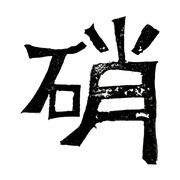
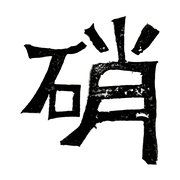
ヘッダーのバランス調整、アイコン背景を白に、SEO対策(メタデータ・構造化データ・sitemap・作家紹介文)を追加

diff --git a/app/layout.tsx b/app/layout.tsx
@@ -1,24 +1,63 @@
 import type { Metadata } from "next";
 import Header from "./components/Header";
-import CartButton from "./components/CartButton";
+import Footer from "./components/Footer";
 import { CartProvider } from "./components/CartContext";
 import VisitTracker from "./components/VisitTracker";
 import "./globals.css";
 
+const siteUrl = process.env.NEXT_PUBLIC_SITE_URL || "https://kougeiglassmotoya.jp";
+
+const siteTitle = "工芸硝子モトヤ | ガラス作家 小野資矢";
+const siteDescription =
+  "ガラス作家・小野資矢が営む工芸硝子モトヤの公式サイト。一つひとつ手作りするガラス作品の販売と、制作の様子を綴るブログ。";
+
 export const metadata: Metadata = {
-  title: "工芸硝子モトヤ",
-  description: "工芸硝子モトヤ 個人ショップ",
+  metadataBase: new URL(siteUrl),
+  title: {
+    default: siteTitle,
+    template: "%s | 工芸硝子モトヤ",
+  },
+  description: siteDescription,
+  openGraph: {
+    title: siteTitle,
+    description: siteDescription,
+    url: "/",
+    siteName: "工芸硝子モトヤ",
+    locale: "ja_JP",
+    type: "website",
+  },
+  twitter: {
+    card: "summary_large_image",
+    title: siteTitle,
+    description: siteDescription,
+  },
+};
+
+const jsonLd = {
+  "@context": "https://schema.org",
+  "@type": "OnlineStore",
+  name: "工芸硝子モトヤ",
+  url: siteUrl,
+  description: siteDescription,
+  founder: {
+    "@type": "Person",
+    name: "小野資矢",
+  },
 };
 
 export default function RootLayout({ children }: { children: React.ReactNode }) {
   return (
     <html lang="ja">
       <body>
+        <script
+          type="application/ld+json"
+          dangerouslySetInnerHTML={{ __html: JSON.stringify(jsonLd) }}
+        />
         <CartProvider>
           <VisitTracker />
-          <CartButton />
           <Header />
           <main>{children}</main>
+          <Footer />
         </CartProvider>
       </body>
     </html>

diff --git a/app/globals.css b/app/globals.css
@@ -38,7 +38,7 @@ a {
   gap: 16px;
   max-width: 960px;
   margin: 0 auto;
-  padding: 20px 96px 20px 24px;
+  padding: 16px 24px;
 }
 
 .site-logo-block {
@@ -48,8 +48,14 @@ a {
 }
 
 .site-logo-img {
-  height: 96px;
+  height: 72px;
   width: auto;
+}
+
+.site-header-right {
+  display: flex;
+  align-items: center;
+  gap: 24px;
 }
 
 .site-nav {
@@ -72,15 +78,13 @@ a {
 }
 
 .cart-button {
-  position: fixed;
-  top: 16px;
-  right: 16px;
-  z-index: 50;
+  position: relative;
+  flex-shrink: 0;
   display: inline-flex;
   align-items: center;
   justify-content: center;
-  width: 56px;
-  height: 56px;
+  width: 48px;
+  height: 48px;
   background: var(--card-bg);
   border: 1px solid var(--border);
   border-radius: 50%;
@@ -115,30 +119,61 @@ a {
 main {
   max-width: 960px;
   margin: 0 auto;
-  padding: 24px 24px 120px;
+  padding: 24px 24px 64px;
   min-height: 60vh;
+}
+
+.site-footer {
+  max-width: 960px;
+  margin: 0 auto;
+  padding: 24px 24px 40px;
+  border-top: 1px solid var(--border);
+  color: var(--muted);
+  font-size: 12px;
+  line-height: 1.8;
+}
+
+.site-footer-copyright {
+  margin-top: 8px;
 }
 
 @media (max-width: 640px) {
   .site-header {
-    padding: 16px 80px 16px 16px;
+    padding: 12px 16px;
   }
 
   .site-logo-img {
-    height: 56px;
+    height: 48px;
+  }
+
+  .site-header-right {
+    gap: 12px;
   }
 
   .site-nav {
-    gap: 14px;
+    gap: 12px;
   }
 
-  main {
-    padding: 16px 16px 110px;
+  .site-nav-link {
+    font-size: 13px;
   }
 
   .cart-button {
-    top: 12px;
-    right: 12px;
+    width: 40px;
+    height: 40px;
+  }
+
+  .cart-button svg {
+    width: 22px;
+    height: 22px;
+  }
+
+  main {
+    padding: 16px 16px 48px;
+  }
+
+  .site-footer {
+    padding: 16px 16px 32px;
   }
 
   .page-title {

diff --git a/app/components/Header.tsx b/app/components/Header.tsx
@@ -3,6 +3,7 @@
 import Link from "next/link";
 import { usePathname } from "next/navigation";
 import Logo from "./Logo";
+import CartButton from "./CartButton";
 
 export default function Header() {
   const pathname = usePathname();
@@ -13,14 +14,17 @@ export default function Header() {
       <Link href="/" className="site-logo-block" aria-label="工芸硝子モトヤ トップページ">
         <Logo />
       </Link>
-      <nav className="site-nav">
-        <Link href="/" className={`site-nav-link ${!isBlog ? "active" : ""}`}>
-          ショップ
-        </Link>
-        <Link href="/blog" className={`site-nav-link ${isBlog ? "active" : ""}`}>
-          ブログ
-        </Link>
-      </nav>
+      <div className="site-header-right">
+        <nav className="site-nav">
+          <Link href="/" className={`site-nav-link ${!isBlog ? "active" : ""}`}>
+            ショップ
+          </Link>
+          <Link href="/blog" className={`site-nav-link ${isBlog ? "active" : ""}`}>
+            ブログ
+          </Link>
+        </nav>
+        <CartButton />
+      </div>
     </header>
   );
 }

diff --git a/app/blog/[id]/page.tsx b/app/blog/[id]/page.tsx
@@ -1,4 +1,5 @@
 import { notFound } from "next/navigation";
+import type { Metadata } from "next";
 import { queryOne, Post } from "@/lib/db";
 
 export const dynamic = "force-dynamic";
@@ -13,6 +14,33 @@ async function getPost(id: string): Promise<Post | null> {
     console.error(err);
     return null;
   }
+}
+
+function excerpt(html: string, max = 120) {
+  const text = html.replace(/<[^>]*>/g, " ").replace(/\s+/g, " ").trim();
+  return text.length > max ? `${text.slice(0, max)}…` : text;
+}
+
+export async function generateMetadata({
+  params,
+}: {
+  params: { id: string };
+}): Promise<Metadata> {
+  const post = await getPost(params.id);
+  if (!post) return {};
+
+  const description = excerpt(post.content);
+
+  return {
+    title: post.title,
+    description,
+    openGraph: {
+      title: post.title,
+      description,
+      type: "article",
+      images: post.cover_image_url ? [post.cover_image_url] : undefined,
+    },
+  };
 }
 
 function formatDate(iso: string) {

diff --git a/app/sitemap.ts b/app/sitemap.ts
@@ -1,0 +1,31 @@
+import type { MetadataRoute } from "next";
+import { query } from "@/lib/db";
+
+const siteUrl = process.env.NEXT_PUBLIC_SITE_URL || "https://kougeiglassmotoya.jp";
+
+type PostRow = { id: string; updated_at: string };
+
+export default async function sitemap(): Promise<MetadataRoute.Sitemap> {
+  let posts: PostRow[] = [];
+  try {
+    posts = await query<PostRow>(
+      "select id, updated_at from posts where is_published = true order by created_at desc"
+    );
+  } catch {
+    posts = [];
+  }
+
+  const staticRoutes: MetadataRoute.Sitemap = [
+    { url: `${siteUrl}/`, changeFrequency: "daily", priority: 1 },
+    { url: `${siteUrl}/blog`, changeFrequency: "daily", priority: 0.8 },
+  ];
+
+  const postRoutes: MetadataRoute.Sitemap = posts.map((p) => ({
+    url: `${siteUrl}/blog/${p.id}`,
+    lastModified: p.updated_at ? new Date(p.updated_at) : undefined,
+    changeFrequency: "weekly",
+    priority: 0.6,
+  }));
+
+  return [...staticRoutes, ...postRoutes];
+}

diff --git a/app/blog/page.tsx b/app/blog/page.tsx
@@ -1,7 +1,14 @@
 import Link from "next/link";
+import type { Metadata } from "next";
 import { query, Post } from "@/lib/db";
 
 export const dynamic = "force-dynamic";
+
+export const metadata: Metadata = {
+  title: "ブログ",
+  description:
+    "ガラス作家・小野資矢による工芸硝子モトヤの制作日記。ガラス作品づくりの様子やお知らせを綴っています。",
+};
 
 async function getPosts(): Promise<Post[]> {
   try {
@@ -28,7 +35,7 @@ export default async function BlogListPage() {
 
   return (
     <div>
-      <h1 className="page-title">Blog</h1>
+      <h1 className="page-title">ブログ</h1>
 
       {posts.length === 0 ? (
         <div className="empty-state">まだ記事がありません。</div>

diff --git a/app/components/Footer.tsx b/app/components/Footer.tsx
@@ -1,0 +1,12 @@
+export default function Footer() {
+  return (
+    <footer className="site-footer">
+      <p>
+        「工芸硝子モトヤ」は、ガラス作家・小野資矢が一つひとつ手作りするガラス作品を制作・販売する個人ショップです。
+      </p>
+      <p className="site-footer-copyright">
+        &copy; {new Date().getFullYear()} 工芸硝子モトヤ(小野資矢)
+      </p>
+    </footer>
+  );
+}

diff --git a/app/robots.ts b/app/robots.ts
@@ -1,0 +1,16 @@
+import type { MetadataRoute } from "next";
+
+const siteUrl = process.env.NEXT_PUBLIC_SITE_URL || "https://kougeiglassmotoya.jp";
+
+export default function robots(): MetadataRoute.Robots {
+  return {
+    rules: [
+      {
+        userAgent: "*",
+        allow: "/",
+        disallow: ["/admin", "/api"],
+      },
+    ],
+    sitemap: `${siteUrl}/sitemap.xml`,
+  };
+}

diff --git a/app/page.tsx b/app/page.tsx
@@ -28,7 +28,7 @@ export default async function ShopPage({
 
   return (
     <div>
-      <h1 className="page-title">Shop</h1>
+      <h1 className="page-title">ショップ</h1>
       <ClearCartOnSuccess success={searchParams.checkout === "success"} />
 
       {searchParams.checkout === "success" && (
